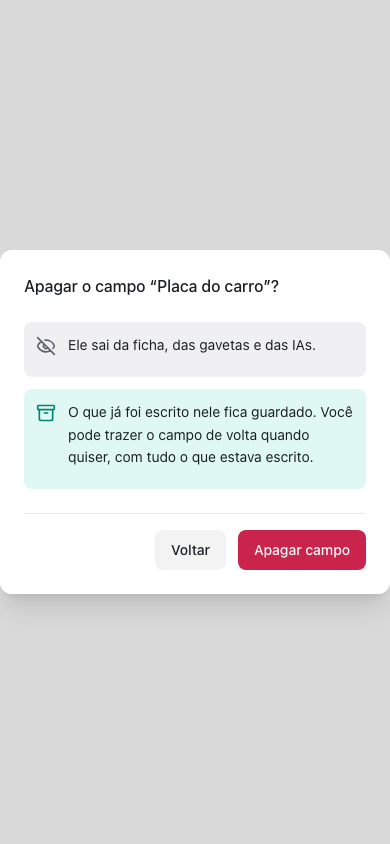
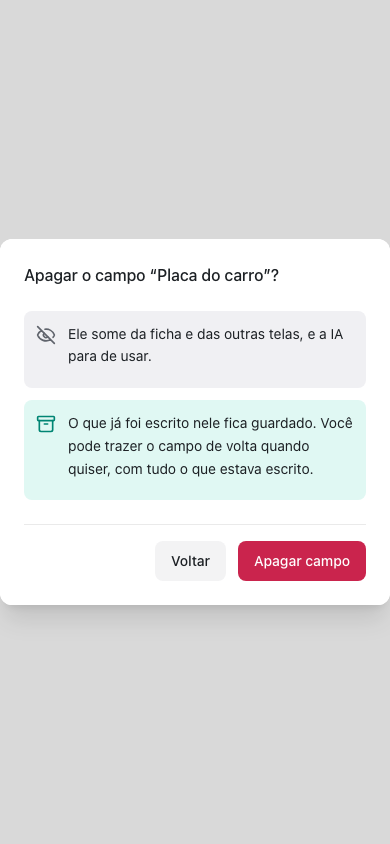
fix(relacionamentos): trazer de volta relê a versão salva; textos e prints
- Depois de trazer de volta, a lista volta com a versão e as áreas salvas:
  o campo aparece ligado e o próximo Salvar não dá conflito.
- Aviso azul sem "perde/lost" (a trava de segmentos de i18n pede decisão para
  essas palavras): "O que já foi escrito fica guardado, ao esconder ou ao apagar".
- Prints da jornada refeitos, com o passo 6 (campo de volta na lista).

Refs #3082

Changed region(s): [[0.0, 0.4621, 1.0, 0.7393], [0.0, 0.2773, 1.0, 0.4313], [0.8, 0.3697, 0.8923, 0.4005]]

diff --git a/app/javascript/dashboard/components-next/Relationships/specs/FieldConfigurator.spec.js b/app/javascript/dashboard/components-next/Relationships/specs/FieldConfigurator.spec.js
@@ -691,9 +691,13 @@ it('brings a deleted field back with the same key, type and purpose', async () =
     attribute_display_type: 'text',
     attribute_description: 'Placa do carro',
   });
-  // Volta para a lista, onde a pessoa vê o campo de novo.
+  // Volta para a lista, onde a pessoa vê o campo de novo, e o próximo Salvar
+  // vai com a versão nova.
   expect(wrapper.find('dialog').element.open).toBe(true);
   expect(wrapper.find('input[type="search"]').exists()).toBe(true);
+  await wrapper.find('form').trigger('submit');
+  await flushPromises();
+  expect(axios.patch.mock.calls[1][1].configuration.revision).toBe(5);
   wrapper.unmount();
 });
 

diff --git a/app/javascript/dashboard/components-next/Relationships/FieldConfigurator.vue b/app/javascript/dashboard/components-next/Relationships/FieldConfigurator.vue
@@ -390,6 +390,13 @@ const submit = async () => {
     // Trazido de volta: a lista de novo, com o campo nela e fora de "Campos
     // apagados" (uma leitura nova). Os outros salvares fecham a janela.
     if (broughtBack) {
+      // O que estava na tela foi junto no salvar: a lista volta com a versão
+      // nova, sem conflito no próximo Salvar.
+      revision.value = state.value.configuration.revision;
+      initialSurfaces = JSON.parse(
+        JSON.stringify(state.value.configuration.surfaces)
+      );
+      layout.value = JSON.parse(JSON.stringify(initialSurfaces));
       directEntry.value = false;
       backToList();
       load();
